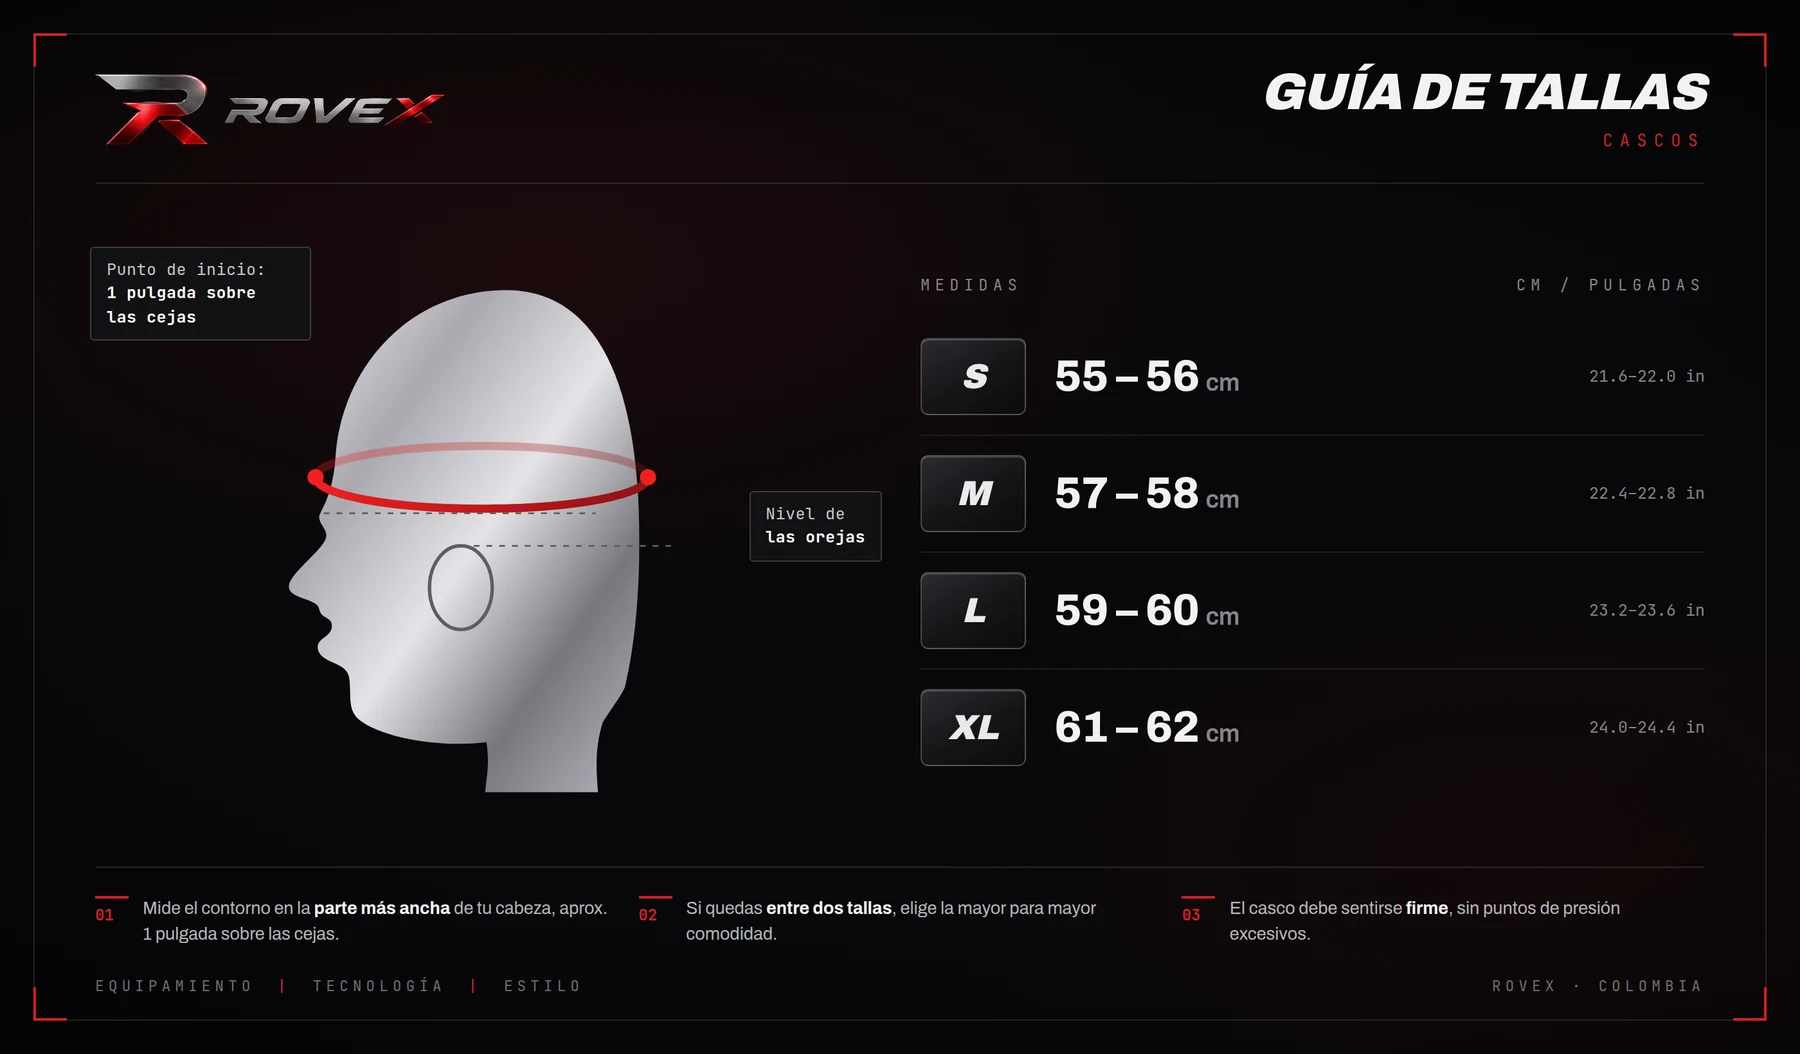
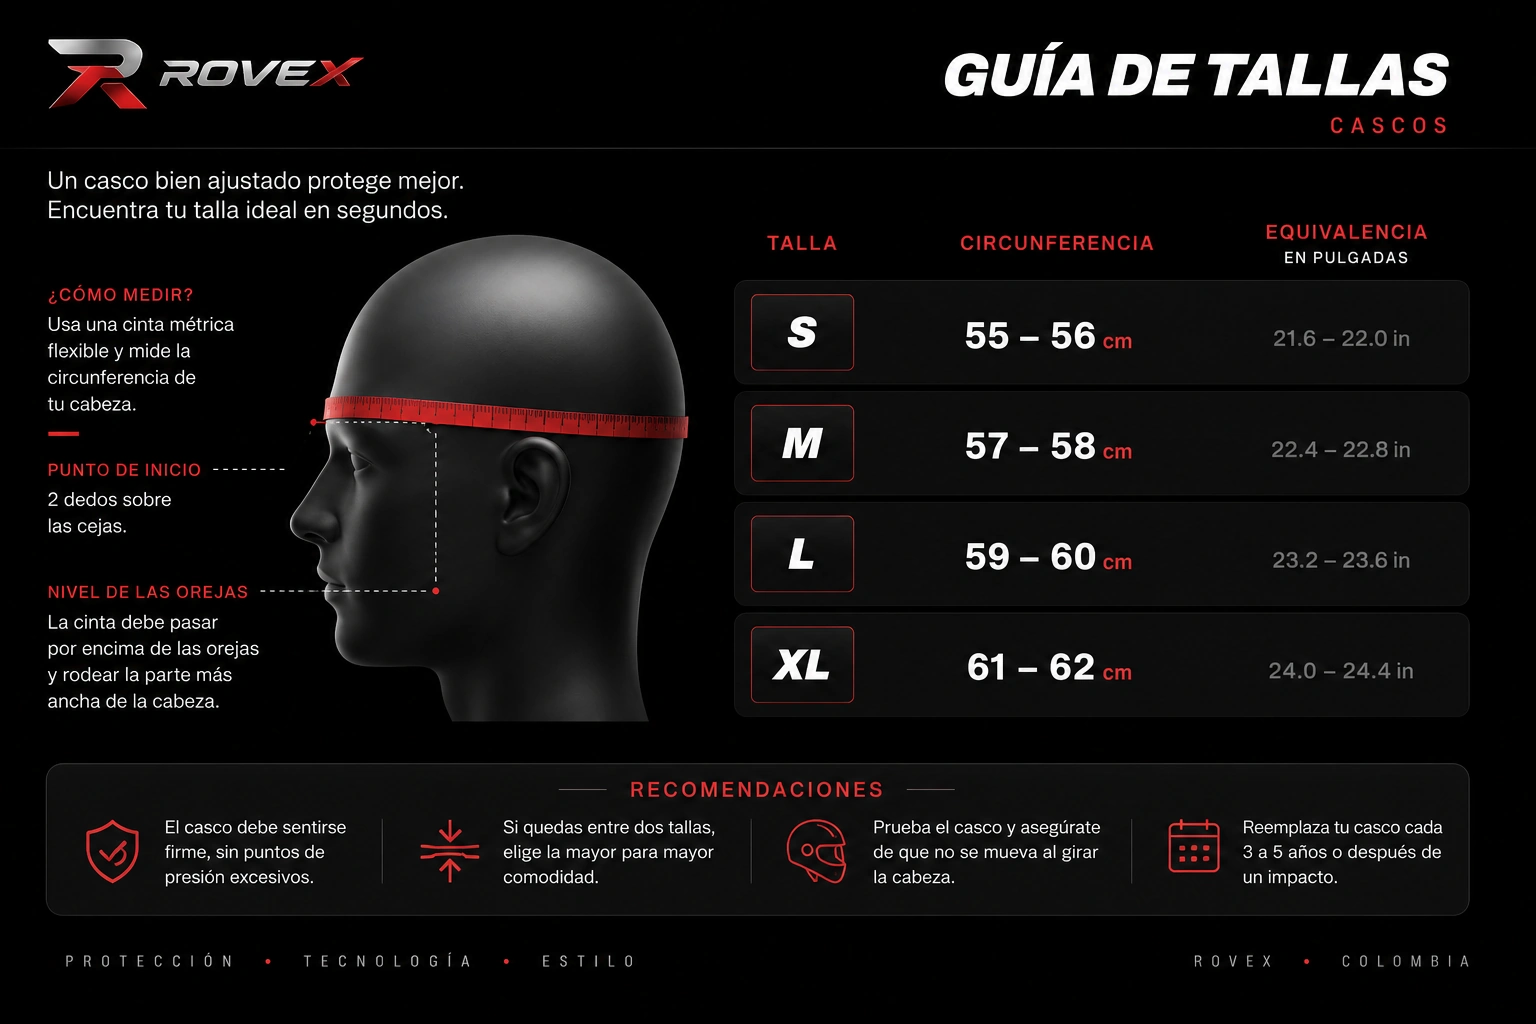
Actualizar la lámina de guía de tallas y anclarla a la galería de fotos
Nueva lámina de marca (con diagrama de medición, tabla y
recomendaciones) reemplaza la anterior; se actualiza el texto de apoyo
de "1 pulgada" a "2 dedos" para que coincida con la instrucción de la
nueva pieza.

El enlace "Guía de tallas" vivía solo junto al selector de talla. Se
agrega también dentro de ProductGallery (con su propio modal): al ser
un componente compartido por la ficha de todos los cascos, queda
anclado automáticamente en los existentes y en los que se creen
después, sin tocar cada producto.

diff --git a/src/components/ProductGallery.tsx b/src/components/ProductGallery.tsx
@@ -2,12 +2,18 @@
 
 import { useState } from "react";
 import { motion, AnimatePresence } from "motion/react";
+import { Ruler } from "lucide-react";
 import Placeholder from "./Placeholder";
+import SizeGuideModal from "./SizeGuideModal";
 import { GALLERY_VIEW_LABELS } from "@/lib/products";
 
 /**
  * Galería con miniaturas clicables. Si hay fotos reales (`images`) las muestra;
  * si no, cae a placeholders con etiquetas de vista.
+ *
+ * Trae su propio enlace a la guía de tallas: al vivir en este componente
+ * compartido, queda anclado a la galería de todas las fichas de producto
+ * (existentes y las que se creen después) sin tener que repetirlo en cada una.
  */
 export default function ProductGallery({
   images = [],
@@ -17,6 +23,7 @@ export default function ProductGallery({
   name: string;
 }) {
   const [active, setActive] = useState(0);
+  const [guideOpen, setGuideOpen] = useState(false);
   const hasPhotos = images.length > 0;
   const slots = hasPhotos ? images : GALLERY_VIEW_LABELS;
 
@@ -67,6 +74,16 @@ export default function ProductGallery({
           </button>
         ))}
       </div>
+
+      <button
+        type="button"
+        onClick={() => setGuideOpen(true)}
+        className="inline-flex w-fit items-center gap-1.5 text-sm text-text-light/60 transition-colors hover:text-accent"
+      >
+        <Ruler size={15} /> Guía de tallas
+      </button>
+
+      <SizeGuideModal open={guideOpen} onClose={() => setGuideOpen(false)} />
     </div>
   );
 }

diff --git a/src/components/SizeGuideModal.tsx b/src/components/SizeGuideModal.tsx
@@ -64,7 +64,7 @@ export default function SizeGuideModal({
             {/* Lámina de marca */}
             <Image
               src={guiaTallas}
-              alt="Guía de tallas ROVEX: mide la circunferencia de tu cabeza 1 pulgada sobre las cejas. S 55-56 cm, M 57-58 cm, L 59-60 cm, XL 61-62 cm."
+              alt="Guía de tallas ROVEX: mide la circunferencia de tu cabeza 2 dedos sobre las cejas, con la cinta pasando por encima de las orejas. S 55-56 cm, M 57-58 cm, L 59-60 cm, XL 61-62 cm."
               placeholder="blur"
               sizes="(max-width: 640px) 100vw, 42rem"
               className="h-auto w-full"
@@ -104,8 +104,8 @@ export default function SizeGuideModal({
               </table>
 
               <p className="mt-5 text-xs leading-relaxed text-text-dark/55">
-                Mide el contorno de tu cabeza en la parte más ancha, aprox. 1
-                pulgada por encima de las cejas. Si quedas entre dos tallas,
+                Mide el contorno de tu cabeza en la parte más ancha, unos 2
+                dedos por encima de las cejas. Si quedas entre dos tallas,
                 elige la mayor. El casco debe sentirse firme, sin puntos de
                 presión.
               </p>

diff --git a/src/app/(store)/guia-de-tallas/page.tsx b/src/app/(store)/guia-de-tallas/page.tsx
@@ -17,7 +17,7 @@ const ROWS = [
 ];
 
 const STEPS = [
-  "Mide el contorno de tu cabeza en la parte más ancha, aprox. 1 pulgada por encima de las cejas.",
+  "Mide el contorno de tu cabeza en la parte más ancha, unos 2 dedos por encima de las cejas.",
   "Si quedas entre dos tallas, elige la mayor para mayor comodidad.",
   "Asegúrate de que el casco se sienta firme, pero sin puntos de presión excesivos.",
 ];
@@ -40,7 +40,7 @@ export default function GuiaDeTallasPage() {
         <div className="overflow-hidden rounded-2xl border border-text-dark/10 shadow-sm">
           <Image
             src={guiaTallas}
-            alt="Guía de tallas ROVEX: mide la circunferencia de tu cabeza 1 pulgada sobre las cejas. S 55-56 cm, M 57-58 cm, L 59-60 cm, XL 61-62 cm."
+            alt="Guía de tallas ROVEX: mide la circunferencia de tu cabeza 2 dedos sobre las cejas, con la cinta pasando por encima de las orejas. S 55-56 cm, M 57-58 cm, L 59-60 cm, XL 61-62 cm."
             placeholder="blur"
             sizes="(max-width: 896px) 100vw, 56rem"
             className="h-auto w-full"
